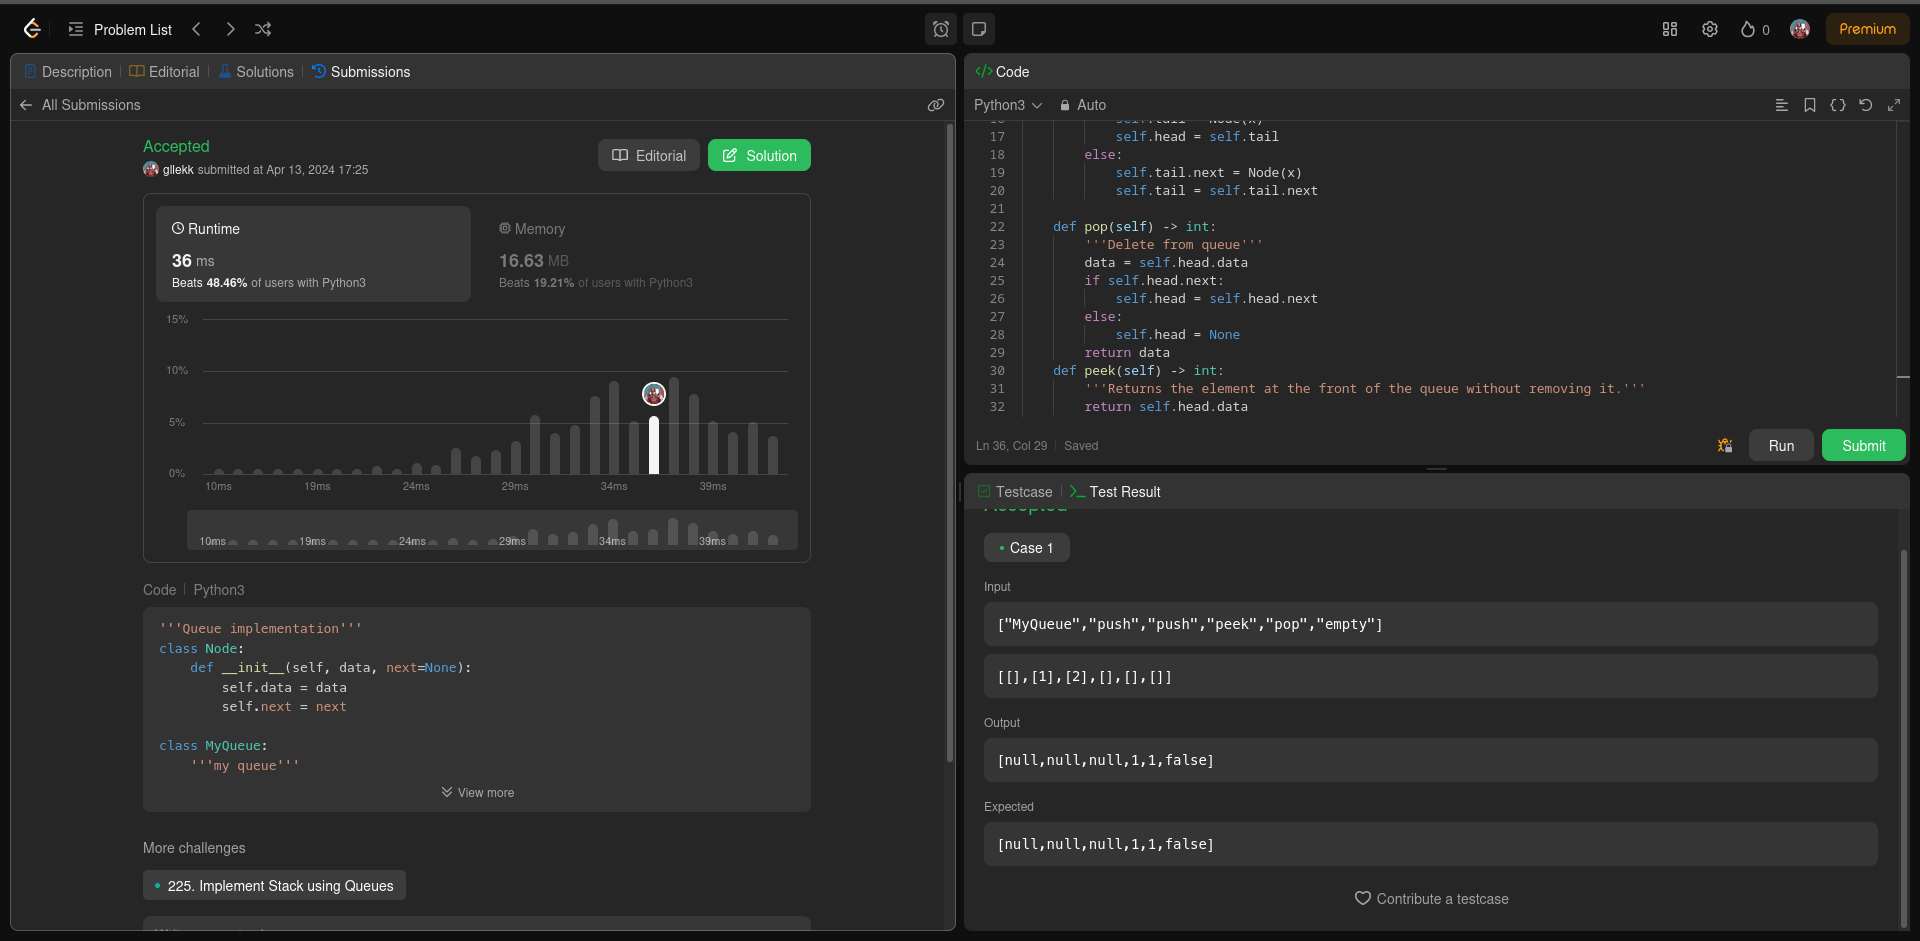
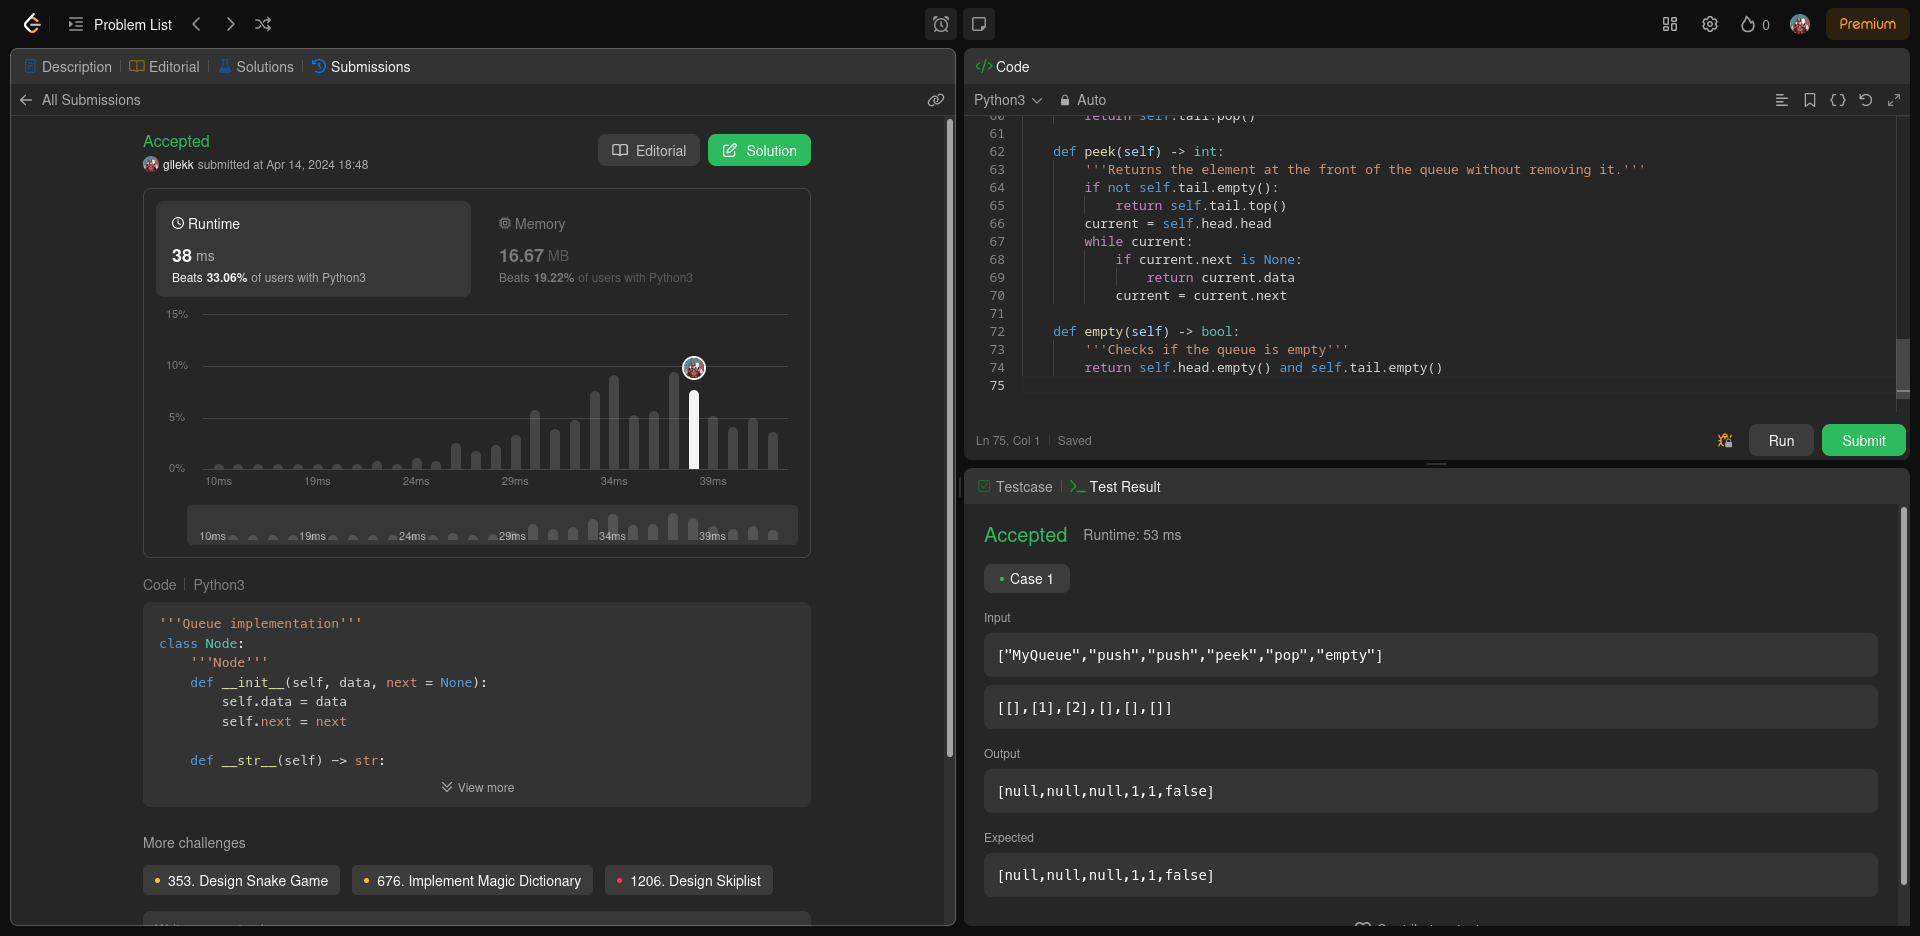
Rewrote implementation of stack using queue

diff --git a/Implement Stack using Queues/Implement Stack using Queues.py b/Implement Stack using Queues/Implement Stack using Queues.py
@@ -4,28 +4,86 @@ class Node:
     def __init__(self, data, next = None):
         self.data = data
         self.next = next
+
+    def __str__(self) -> str:
+        return f"Node(data={self.data}, next={self.next})"
+class Queue:
+    '''Queue'''
+    def __init__(self):
+        self.head = None
+        self.tail = None
+
+    def is_empty(self):
+        '''Returns True if queue is empty'''
+        return self.head is None
+
+    def add(self, item):
+        '''Add elements to queue'''
+        if self.head is None:
+            self.tail = Node(item)
+            self.head = self.tail
+        else:
+            self.tail.next = Node(item)
+            self.tail = self.tail.next
+
+    def pop(self):
+        '''Pops last element from queue'''
+        if self.head:
+            data = self.head.data
+            self.head = self.head.next
+            return data
+        raise ValueError('Queue is empty.')
+
+    @property
+    def peek(self):
+        '''Returns first element in queue'''
+        return self.tail.data
+
+    def __len__(self):
+        count = 0
+        current = self.head
+        while current is not None:
+            count += 1
+            current = current.next
+        return count
+
+    def __str__(self):
+        s = ''
+        current = self.head
+        while current is not None:
+            s += str(current.data)+' '
+            current = current.next
+        return f'start -> {s}<- end'
+
 class MyStack:
     '''My stack'''
     def __init__(self):
-        self.head = None
+        self.first_queue = Queue()
+        self.second_queue = Queue()
 
     def push(self, x: int) -> None:
         '''Adds an element to the top of the stack'''
-        self.head = Node(x, self.head)
+        self.first_queue.add(x)
 
     def pop(self) -> int:
         '''Removes the top element from the stack'''
-        data = self.head.data
-        self.head = self.head.next
-        return data
+        if self.first_queue.head is not None:
+            for _ in range(len(self.first_queue)-1):
+                self.second_queue.add(self.first_queue.pop())
+            output = self.first_queue.pop()
+            self.second_queue, self.first_queue = self.first_queue, self.second_queue
+            return output
 
     def top(self) -> int:
         '''Returns data of head'''
-        return self.head.data
+        return self.first_queue.peek
 
     def empty(self) -> bool:
         '''Checks if the stack is empty'''
-        return not self.head
+        return self.second_queue.is_empty() and self.first_queue.is_empty()
+
+    def __str__(self) -> str:
+        return f"{self.first_queue}, {self.second_queue}"
 
 if __name__ == '__main__':
     myStack = MyStack()
